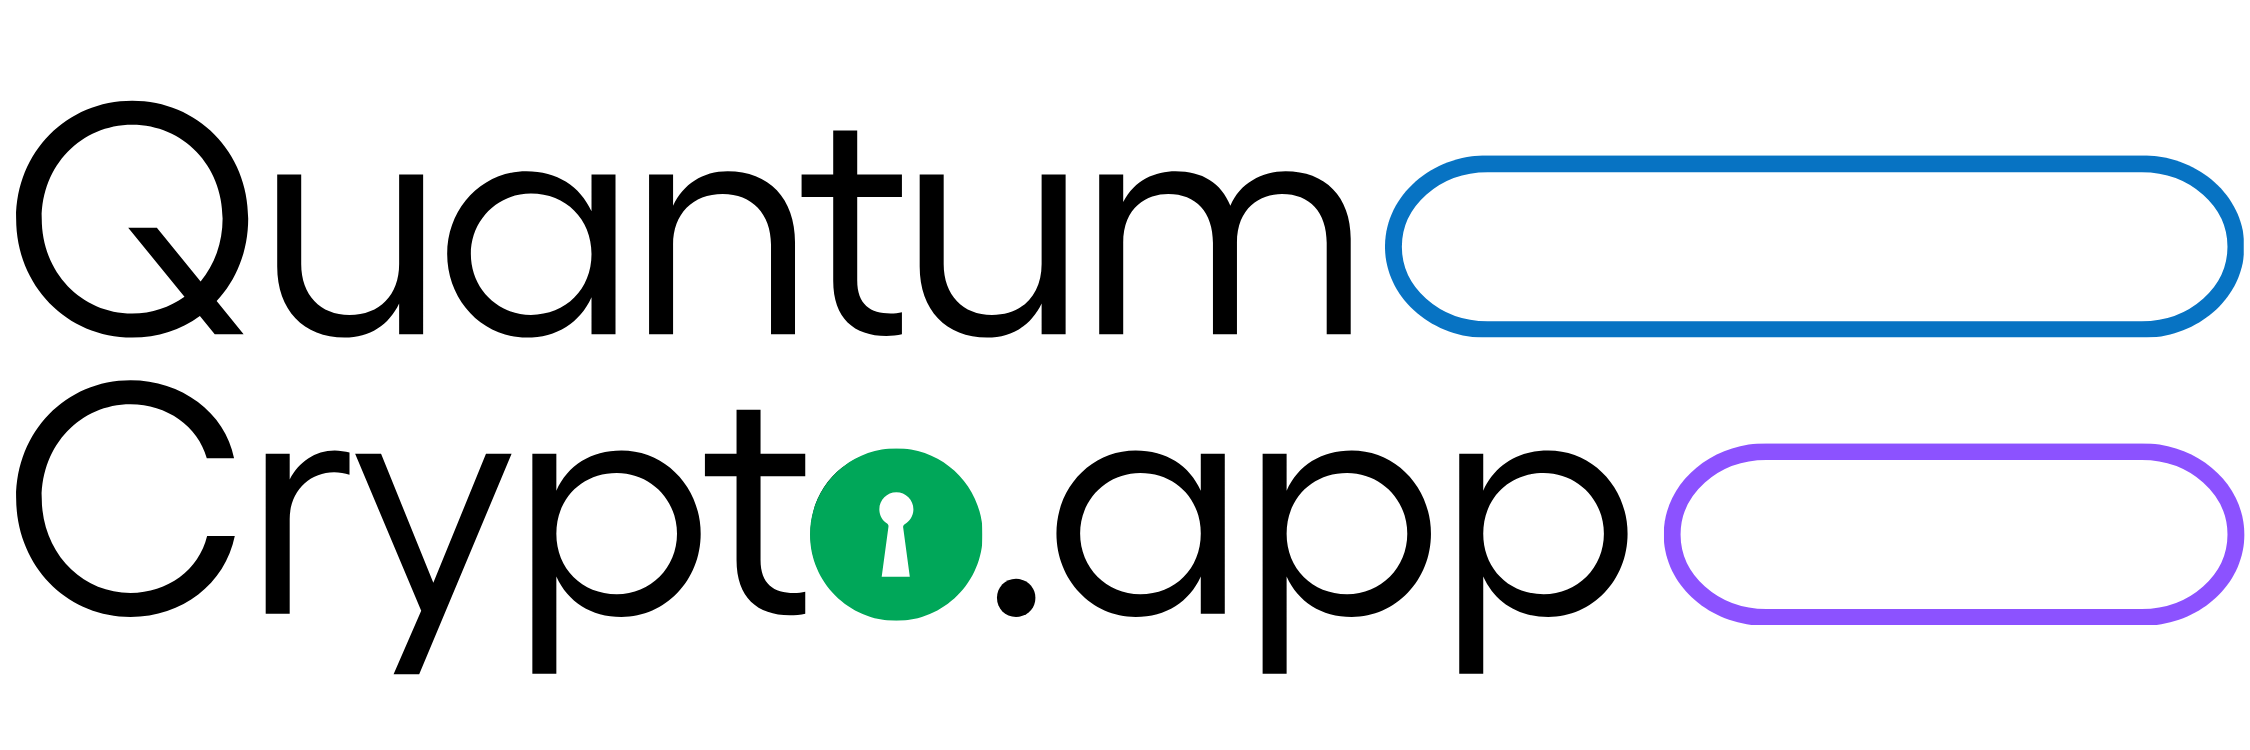
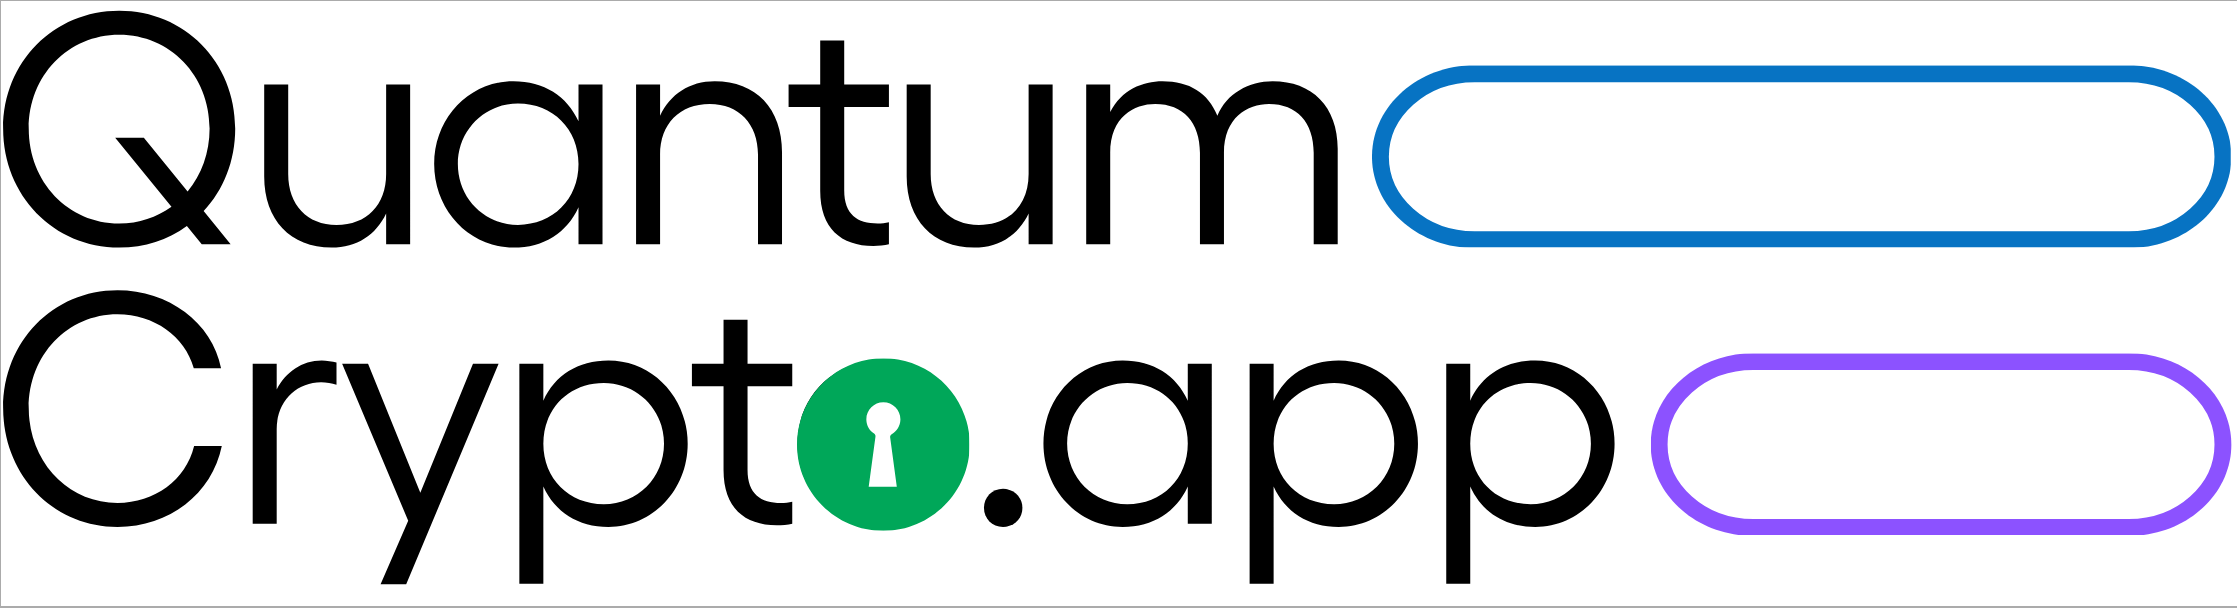
feat: Update title component styling and add a detailed UI redesign plan to the task list.

Changed region(s): [[0.0, 0.0, 1.0, 1.0], [0.7403, 0.5625, 0.987, 0.6562]]

diff --git a/components/home-page/title.tsx b/components/home-page/title.tsx
@@ -18,7 +18,7 @@ const Title = () => {
     const logoLang = isClient ? (langCode === 'es' ? 'en' : langCode) : 'en';
 
     return (
-        <div className="h-fit w-fit flex flex-col gap-y-3 mt-20 mx-auto text-center">
+        <div className="h-fit flex flex-col gap-y-3 mt-20 mx-auto text-center max-w-[500px]">
             {/* 
               CSS-based theme switching: render BOTH logos, CSS shows correct one instantly.
               This prevents the hydration flash because dark: classes work immediately.
@@ -30,7 +30,7 @@ const Title = () => {
                 alt="QuantumCrypto"
                 width={500}
                 height={100}
-                className="block dark:hidden h-24 md:h-32 w-auto object-contain"
+                className="block dark:hidden h-32 md:h-44 w-auto object-contain"
                 priority
             />
 
@@ -40,7 +40,7 @@ const Title = () => {
                 alt="QuantumCrypto"
                 width={500}
                 height={100}
-                className="hidden dark:block h-24 md:h-32 w-auto object-contain"
+                className="hidden dark:block h-32 md:h-44 w-auto object-contain"
                 priority
             />
 

diff --git a/tasks_todo.md b/tasks_todo.md
@@ -3,6 +3,48 @@
 
 ---
 
+## 🎨 UI REDESIGN (January 2026)
+
+**Status**: 📋 PLANNING  
+**Date Added**: January 29, 2026  
+**Priority**: 🟠 HIGH
+
+### Overview
+Redesign website based on colleague's Canva mockup. New design includes:
+- Updated landing page with new navigation
+- Protocol pages with left sidebar navigation
+- Video tutorials integration
+- Lexique/Glossary sections
+
+### Phases
+
+| Phase | Scope | Estimated Time | Status |
+|-------|-------|----------------|--------|
+| **Phase 1** | Landing Page Redesign | 2-3 hours | ⬜ TODO |
+| **Phase 2** | BB84 Page Redesign | 4-6 hours | ⬜ TODO |
+| **Phase 3** | E91 & DPS Pages | 4-6 hours | ⬜ TODO |
+
+### Approach
+**Modify existing pages** (not create new ones) - current structure is modular and supports gradual changes.
+
+### New Components Needed
+- [ ] `ProtocolSidebar.tsx` - Sticky left navigation
+- [ ] `VideoEmbed.tsx` - YouTube embed component
+- [ ] `GlossarySection.tsx` - Lexique definitions
+- [ ] `SectionCard.tsx` - Reusable card wrapper
+
+### Implementation Order
+```
+□ Create branch: git checkout -b ui-redesign
+□ Phase 1: Landing page
+□ Phase 2: BB84 page
+□ Phase 3: E91 & DPS pages
+□ Final testing
+□ Merge to main
+```
+
+---
+
 ## 📦 Next.js Version Documentation
 
 ### Current Version Status (December 2025)
